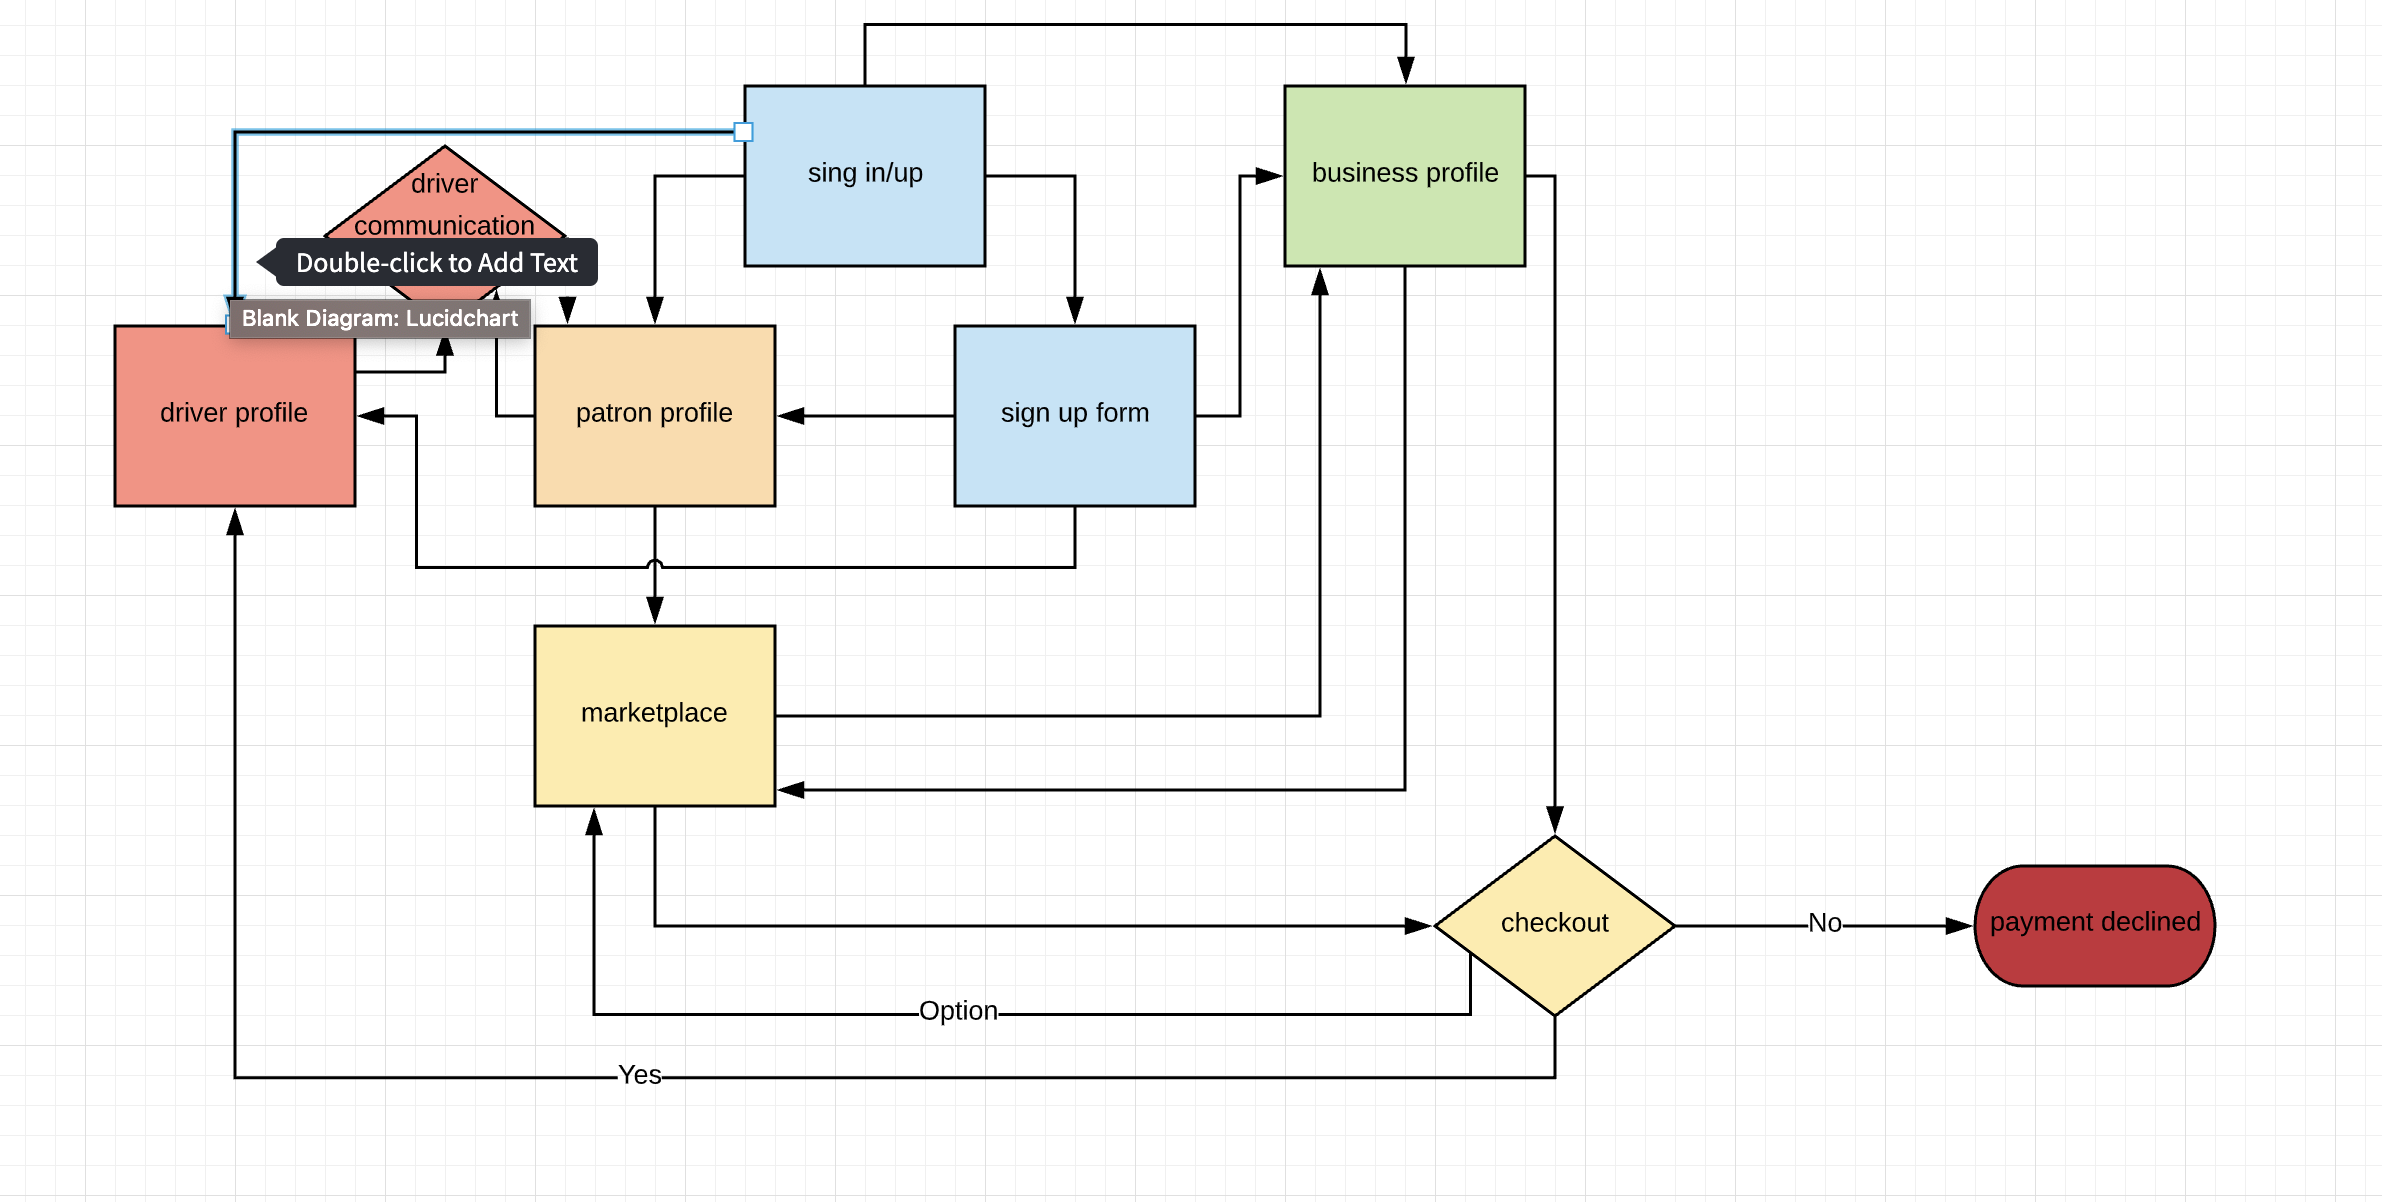
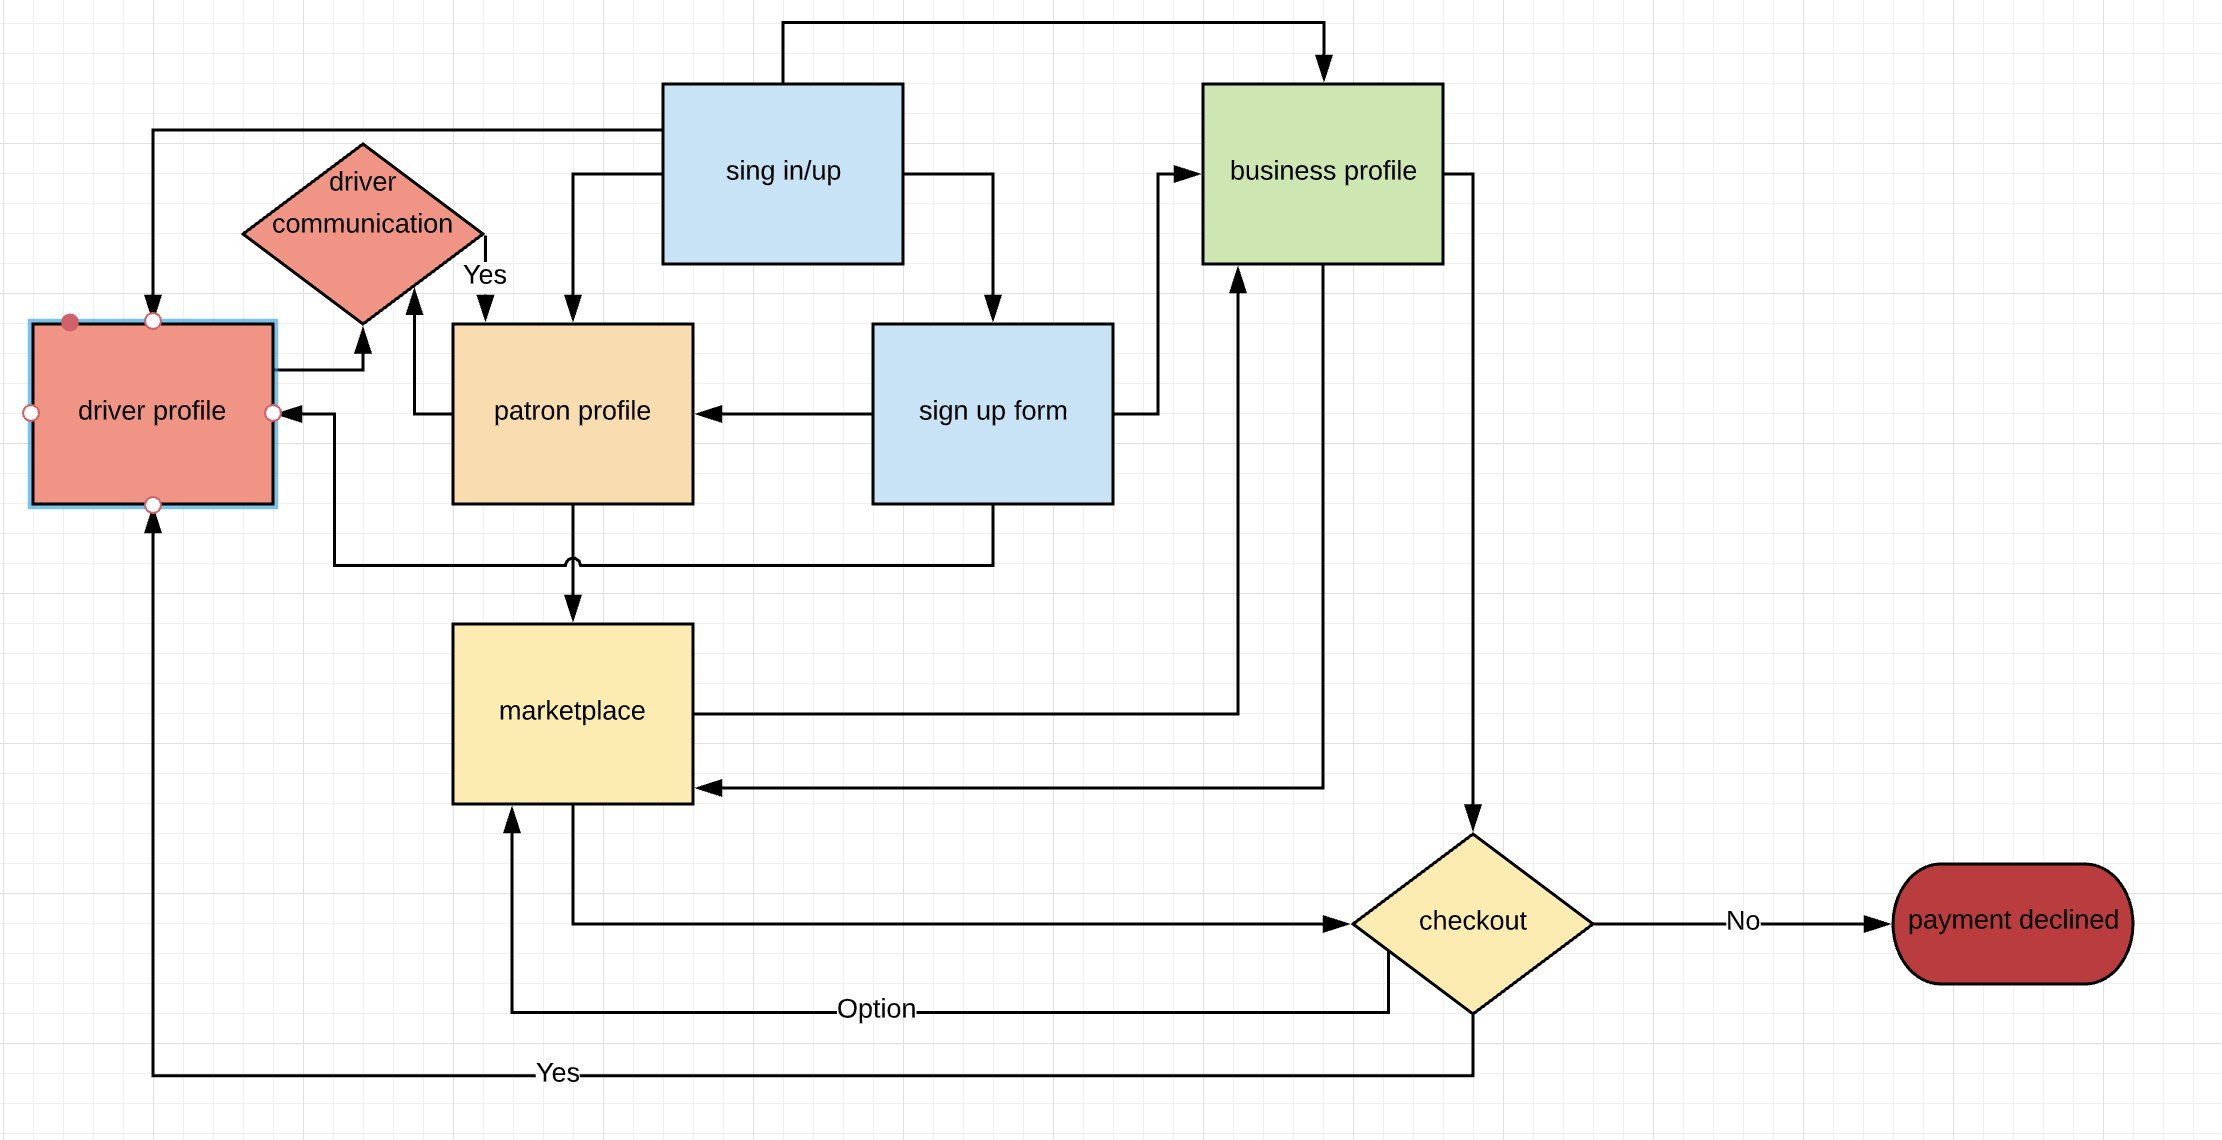
added pictures to readme

Changed region(s): [[0.0, 0.0307, 0.9626, 0.9518]]

diff --git a/README.md b/README.md
@@ -12,6 +12,7 @@ resteraunts via the app.
 ---
 
 ## URL
+
 Deployed website here: https://secret-sea-36538.herokuapp.com/
 
 Git Repositories here: https://github.com/dwaynediddy/diddyeats
@@ -33,8 +34,7 @@ Git Repositories here: https://github.com/dwaynediddy/diddyeats
 - (potentially) rating system
 
 ## sitemap
-
-## screenshots
+![Sitemap](/config/docs/sitemap.png)
 
 ## taget audience
 
@@ -52,7 +52,7 @@ Git Repositories here: https://github.com/dwaynediddy/diddyeats
 ## wireframes for app
 
 ## ERD for app
-![Sitemap](/config/docs/sitemap.png)
+![ERD](/config/docs/erd.png)
 
 ## high level components
 
